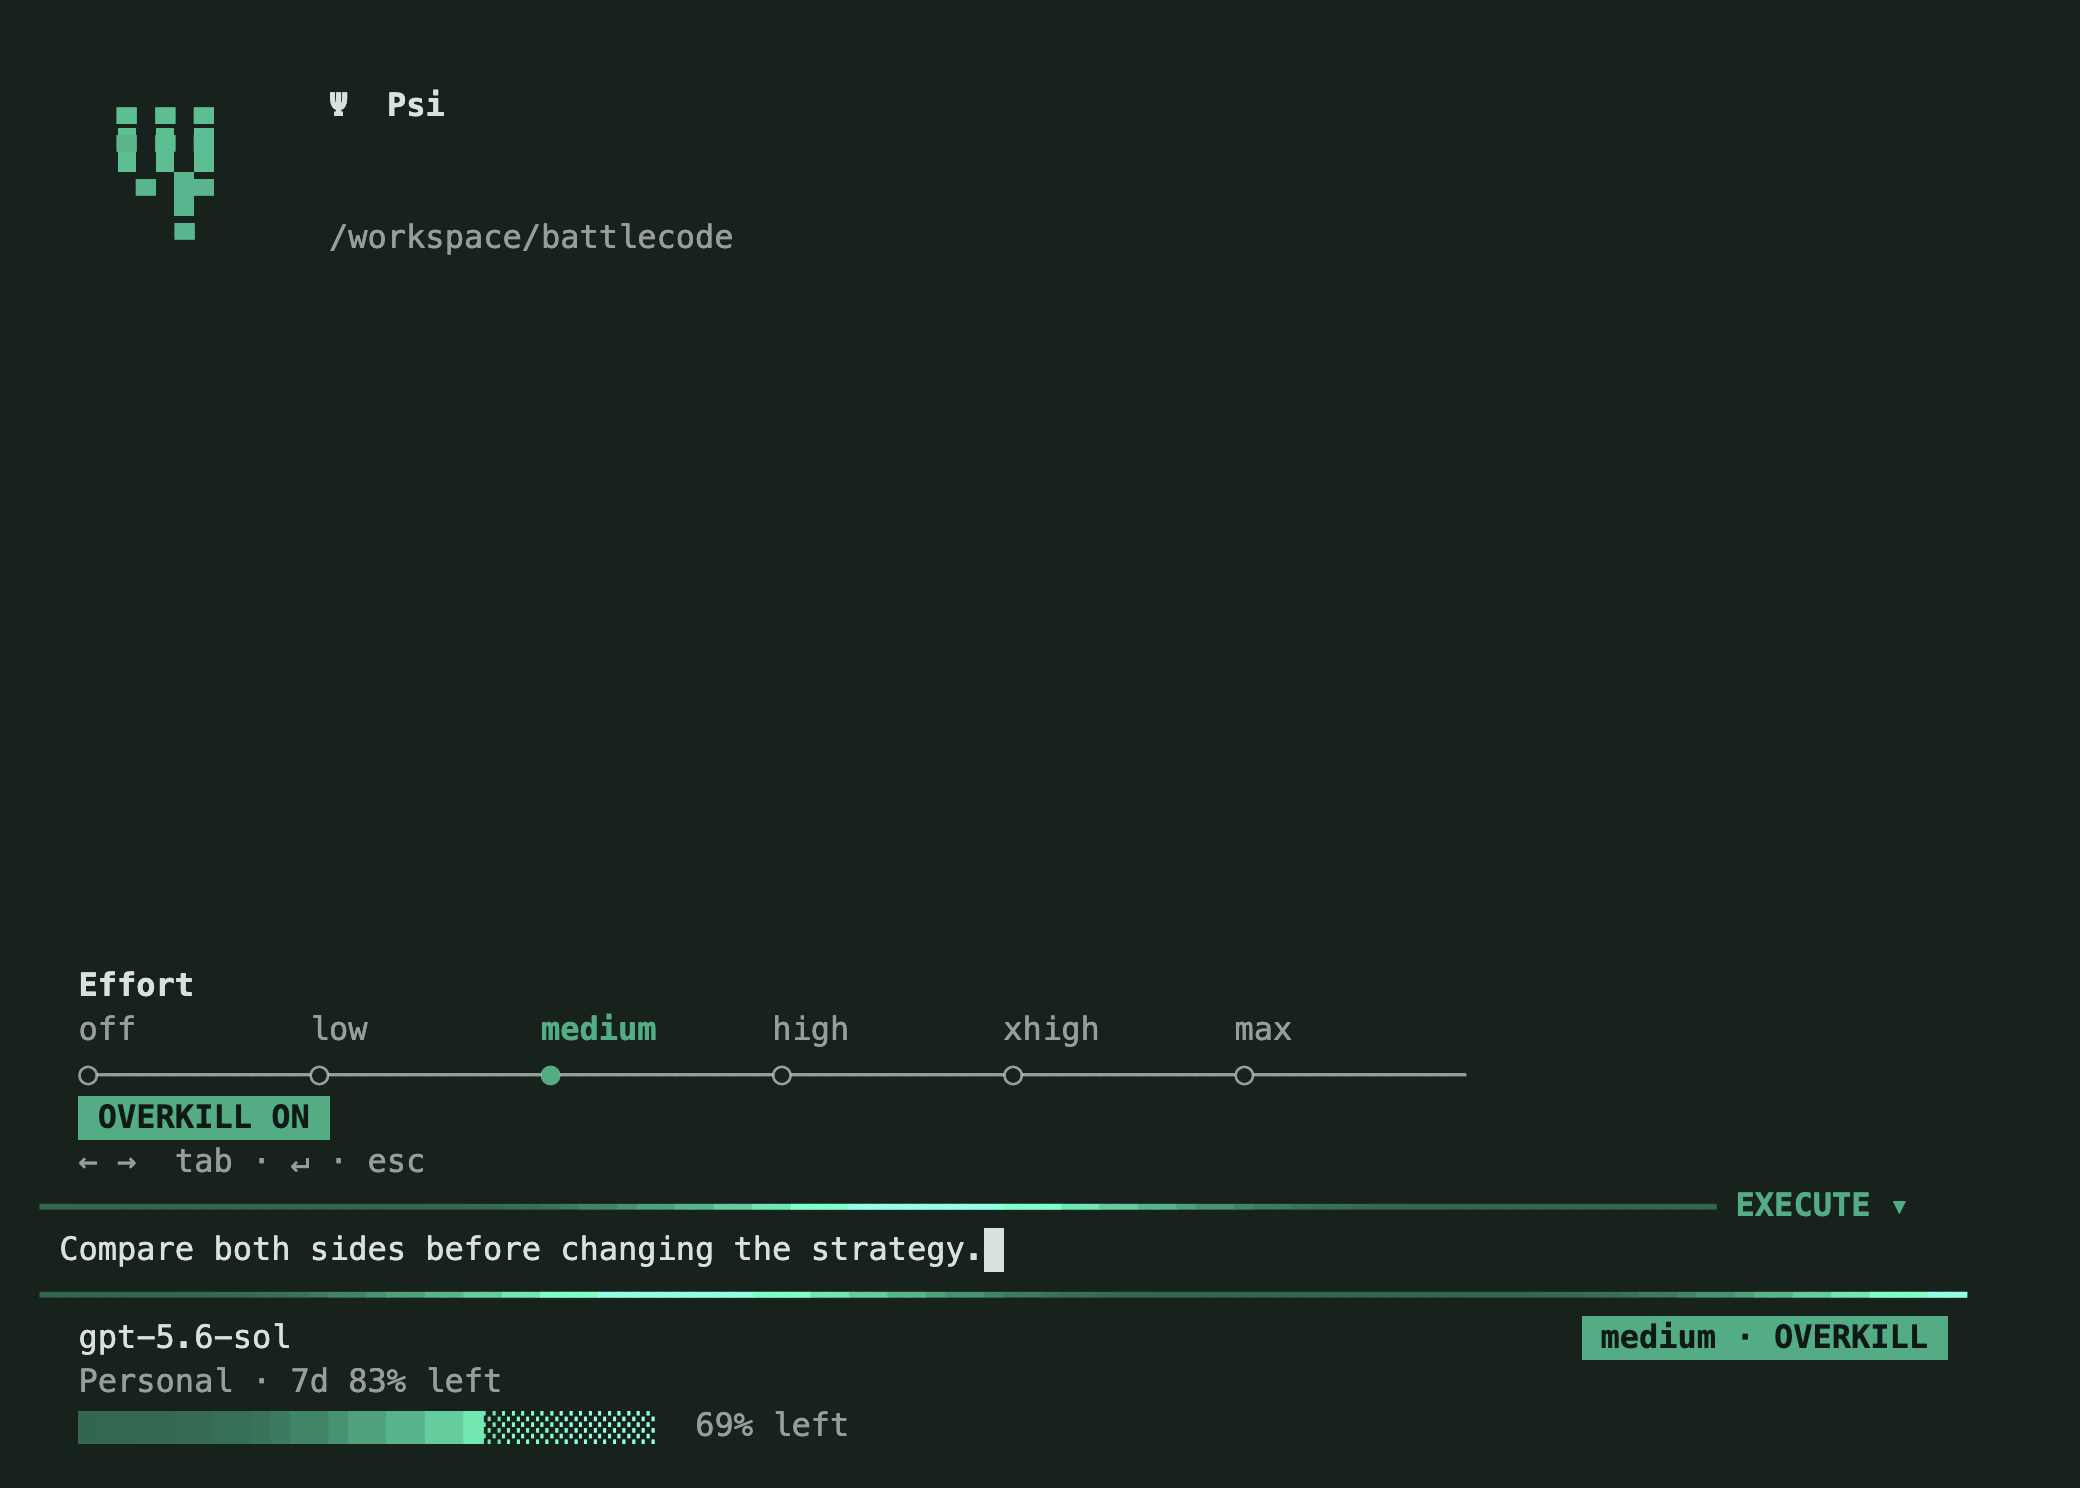
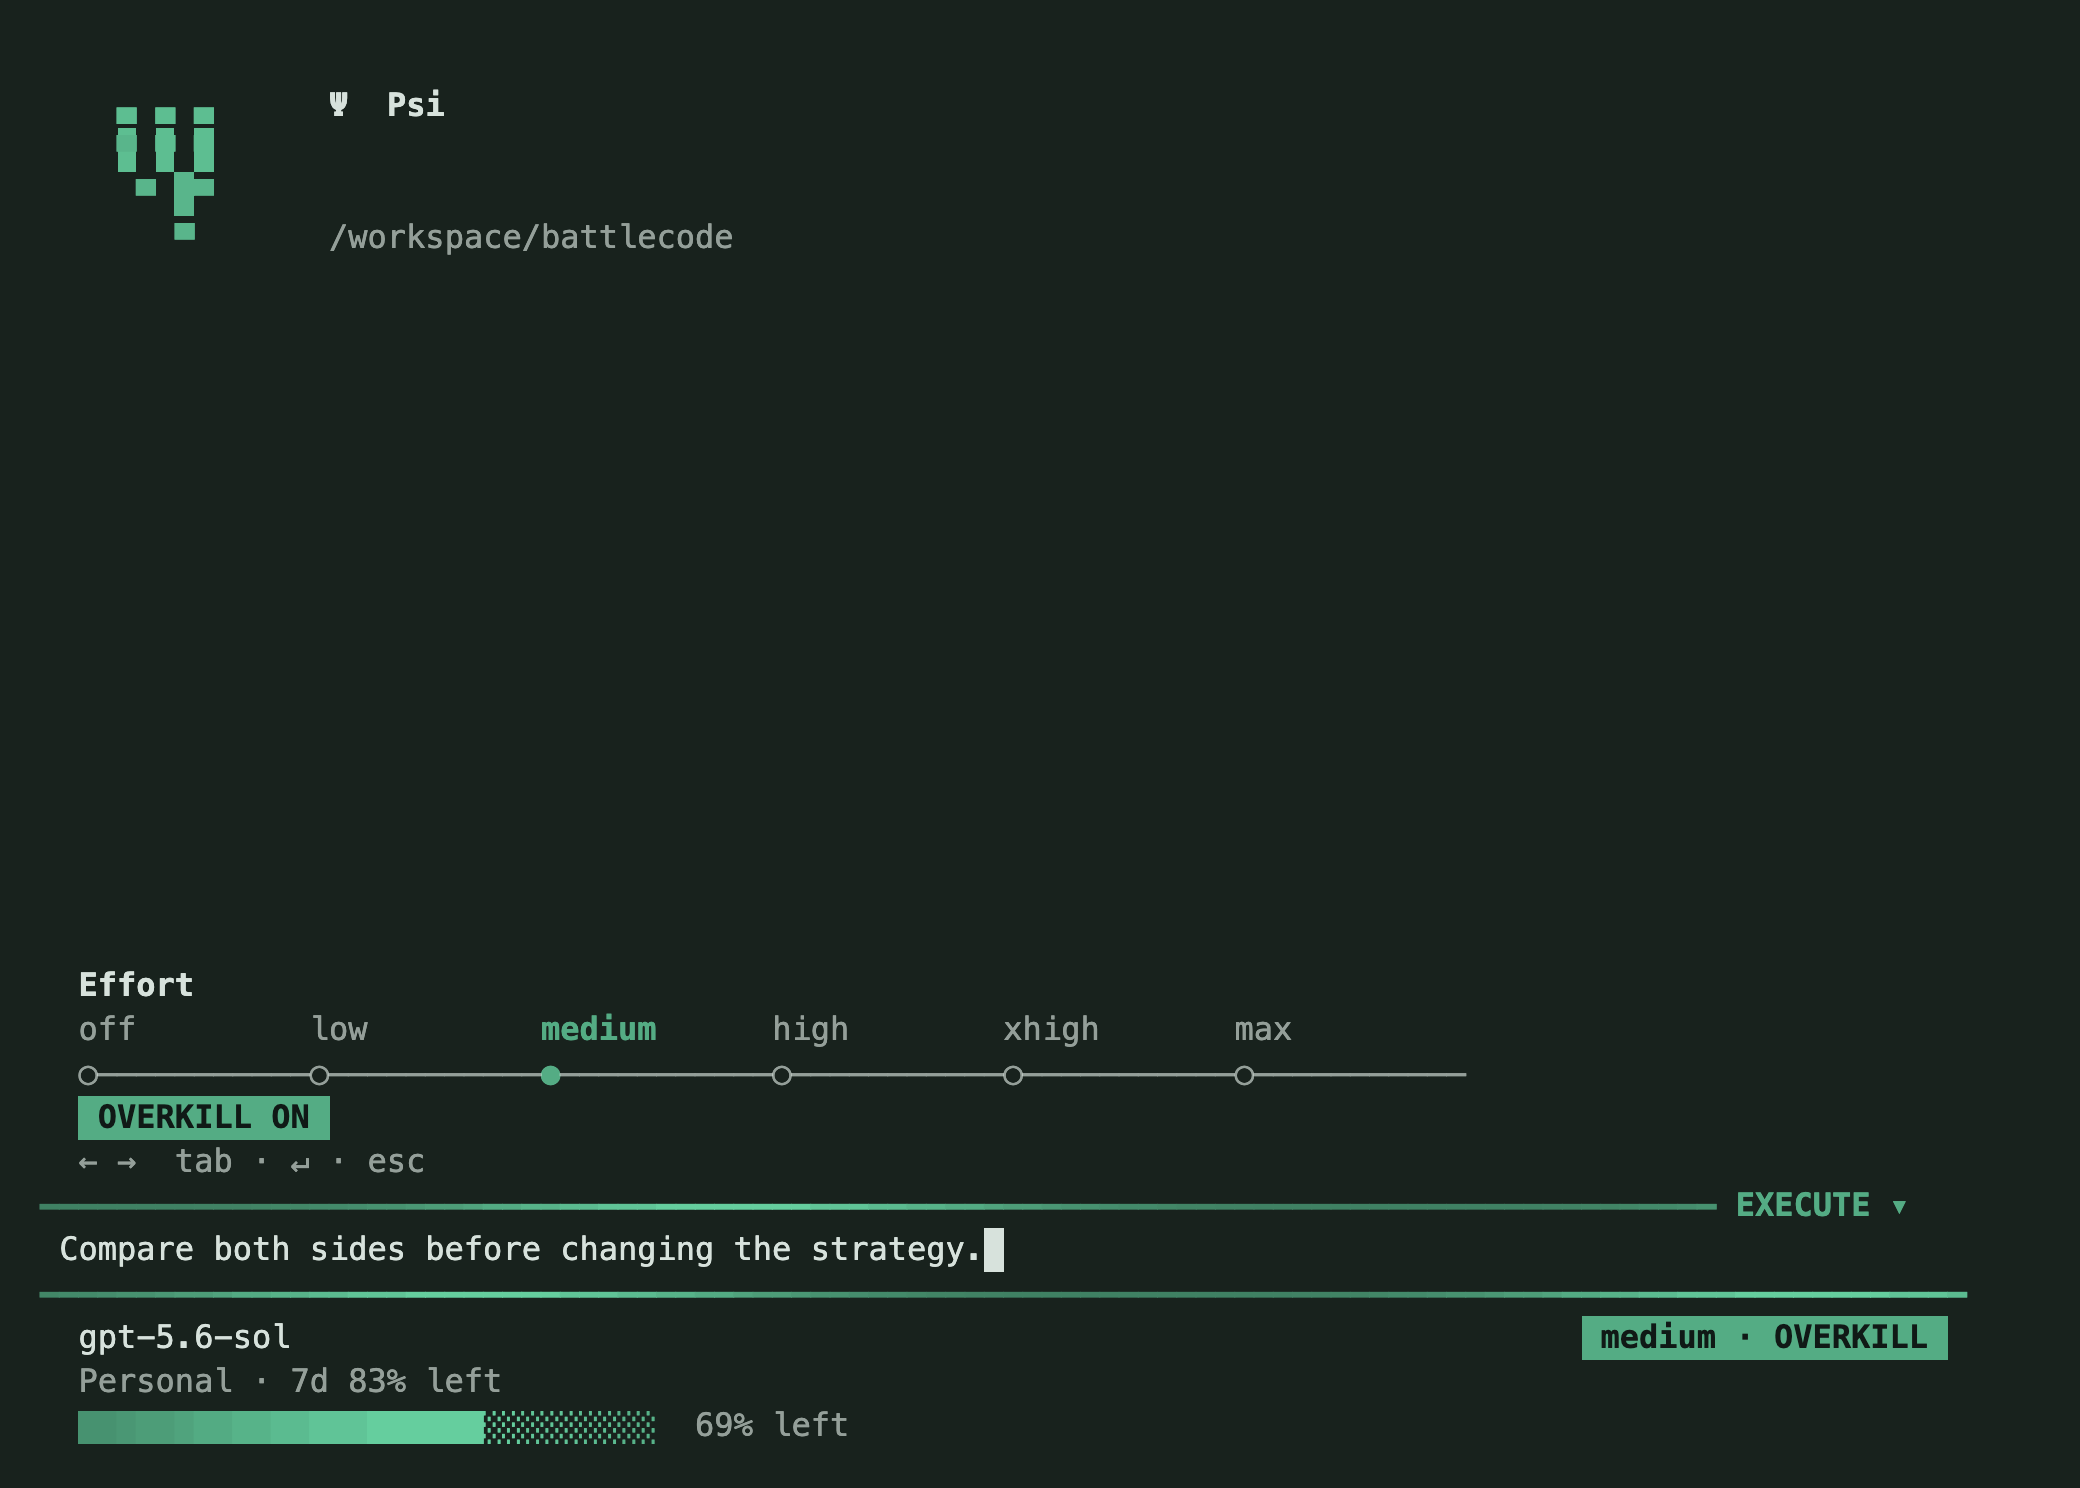
Soften OVERKILL bar motion and simplify account picker labels

diff --git a/DESIGN.md b/DESIGN.md
@@ -18,7 +18,7 @@ A fullscreen terminal viewport contains the workspace header, a scrolling conver
 
 ## Interaction
 
-Shift+Tab toggles PLAN/EXECUTE. The dedicated /effort slider uses arrows to adjust, Tab to stage OVERKILL, Enter to apply and Escape to discard. /stats uses a compact bottom panel with calendar heatmaps for week, month and all-time activity; arrows/Tab change period, r refreshes and Escape closes without losing the draft. Slash commands and Tab completion; Enter submits; Shift+Enter adds a line; Escape closes a picker; two Escapes within 600 ms stop a run; Ctrl+C cancels a prompt or active run and exits when idle. Pickers support arrow keys and text search. Settings use a searchable list with values and short explanations, then a focused picker or input for the chosen setting. Keep the workspace header pinned above every picker and statistics/tool panel. At very short terminal heights it compacts to the original Psi identity and path. Effort shows only supported level labels, the slider, OVERKILL toggle and symbolic key hints. Generic menus use a short title, filter, compact list and key hints, without explanatory paragraphs. /tools is a paged name grid. /reset uses a compact bottom panel with provider-reported reset dates/countdowns and explicit account selection. A second Enter confirms a banked reset; ambiguous outcomes retain a durable retry key. Claude resets open the provider Usage page. Budget, request limits, output tokens and Compaction model stay in Settings. Appearance updates immediately; execution settings queue until the next safe boundary. Messages have a small Ψ/Psi header, aligned response text and one row per tool that updates in place. A user send receives a 240 ms eased accent transition; an active response or tool uses a restrained accent pulse and stable-width status text. Streamed text is shown immediately, without a typewriter delay. The global motion timer runs at most 12.5 frames per second while work or send feedback is active, and stops when idle, disabled or closed, except while the user has explicitly enabled OVERKILL. OVERKILL increases border weight, adds a filled ON badge and moves a brighter accent across the borders, usage meter and original terminal mark. Reduced motion makes these accents static. UI animations can be disabled in settings. The logo also has an explicitly requested, click-triggered 3D view. It opens a rotating, shaded Ψ mesh occupying at most half the terminal height and 52 columns, at 24 fps and exits on click or Escape without changing the prompt. `/logo` supplies a keyboard alternative. Stop its timer completely on close and exit. No animation plays on startup. Streamed output is coalesced into approximately 35ms render windows. UI retains at most 100 transcript components while session evidence remains on disk.
+Shift+Tab toggles PLAN/EXECUTE. The dedicated /effort slider uses arrows to adjust, Tab to stage OVERKILL, Enter to apply and Escape to discard. /stats uses a compact bottom panel with calendar heatmaps for week, month and all-time activity; arrows/Tab change period, r refreshes and Escape closes without losing the draft. Slash commands and Tab completion; Enter submits; Shift+Enter adds a line; Escape closes a picker; two Escapes within 600 ms stop a run; Ctrl+C cancels a prompt or active run and exits when idle. Pickers support arrow keys and text search. Account switch/remove rows show only the short provider name and account name, such as codex · Personal, without status marks, authentication details, IDs or request counts. Settings use a searchable list with values and short explanations, then a focused picker or input for the chosen setting. Keep the workspace header pinned above every picker and statistics/tool panel. At very short terminal heights it compacts to the original Psi identity and path. Effort shows only supported level labels, the slider, OVERKILL toggle and symbolic key hints. Generic menus use a short title, filter, compact list and key hints, without explanatory paragraphs. /tools is a paged name grid. /reset uses a compact bottom panel with provider-reported reset dates/countdowns and explicit account selection. A second Enter confirms a banked reset; ambiguous outcomes retain a durable retry key. Claude resets open the provider Usage page. Budget, request limits, output tokens and Compaction model stay in Settings. Appearance updates immediately; execution settings queue until the next safe boundary. Messages have a small Ψ/Psi header, aligned response text and one row per tool that updates in place. A user send receives a 240 ms eased accent transition; an active response or tool uses a restrained accent pulse and stable-width status text. Streamed text is shown immediately, without a typewriter delay. The global motion timer runs at most 12.5 frames per second while work or send feedback is active, and stops when idle, disabled or closed, except while the user has explicitly enabled OVERKILL. OVERKILL increases border weight, adds a filled ON badge and moves a brighter accent across the borders, usage meter and original terminal mark. Input and usage waves use an 850 ms phase scale with a restrained 0.75–1.20 brightness range; the logo keeps its existing motion. Reduced motion makes these accents static. UI animations can be disabled in settings. The logo also has an explicitly requested, click-triggered 3D view. It opens a rotating, shaded Ψ mesh occupying at most half the terminal height and 52 columns, at 24 fps and exits on click or Escape without changing the prompt. `/logo` supplies a keyboard alternative. Stop its timer completely on close and exit. No animation plays on startup. Streamed output is coalesced into approximately 35ms render windows. UI retains at most 100 transcript components while session evidence remains on disk.
 
 ## Assets
 

diff --git a/docs/VERIFICATION.md b/docs/VERIFICATION.md
@@ -2,7 +2,7 @@
 
 Verified locally on 2026-10-31 (Australia/Sydney), using isolated temporary homes for tests.
 
-- `npm run verify`: syntax checks and **96 passing tests**.
+- `npm run verify`: syntax checks and **97 passing tests**.
 - Real HTTP SSE requests to a local OpenAI-compatible fixture executed file writes, a detached shell job, website extraction and objective completion. No paid inference was used.
 - A new process can reconstruct messages, usage, pending goals and tool outcomes from the session journal.
 - Tested serialized multi-account refresh, private credential file mode, transient retries, authentication failure handling, budget/request limits, compaction, torn-journal recovery, writer contention, stale-session rejection and cancellation.
@@ -102,3 +102,9 @@ Actual API invoices and real competition transactions were not exercised in this
 - A read-only check against the existing selected Codex account returned quota windows and credit metadata. The saved Codex login hash was unchanged. No real credit was redeemed and no paid inference was used.
 - The account footer omits five-hour quota and keeps weekly percent left. The bottom meter retains five-hour-first behavior. Budget/request/token limits and Compaction model remain in Settings.
 - Linux and Windows CI include the reset tests using a local protocol fixture; the installed Codex binary is optional and not required by the test suite.
+
+## Quieter bars and account rows (0.2.8)
+
+- Input and usage-bar waves move 35% slower, with a narrower brightness range. The existing reduced-motion and animation/timer checks pass; logo motion is unchanged.
+- Account switch/remove rows show only provider and account name. Codex is shortened to `codex`; active markers, authentication type, account IDs and usage details are omitted. A focused regression verifies the list still uses stable IDs internally.
+- Read-only inspection confirmed the unwanted entry was already absent from the local Psi store. The separate Pi source login was left intact. No account-removal code or personal account names were added to the product.

diff --git a/docs/GUIDE.md b/docs/GUIDE.md
@@ -157,7 +157,7 @@ An incremental private cache stores counters and timestamps, without copying pro
 
 ## Usage and multiple accounts
 
-Use `/accounts` → **Login new account** repeatedly to add any number of named accounts, including several from the same provider. Saved credentials are separate; connecting another account does not overwrite the first. Use **Switch accounts** to select from the flat cross-provider list. Short account IDs distinguish duplicate names.
+Use `/accounts` → **Login new account** repeatedly to add any number of named accounts, including several from the same provider. Saved credentials are separate; connecting another account does not overwrite the first. Use **Switch accounts** to select from the flat cross-provider list. Rows show only provider and account name; use distinct names for clarity.
 
 Subscription accounts show their provider-reported **7d** quota beside the account, and the **5h** quota in the bottom meter when supplied. `/reset` shows both reset times and countdowns. Codex and Claude OAuth accounts refresh on startup, before inference and periodically while the UI is open (default 120 seconds; minimum 60). Absent, unlimited or expired windows are omitted. `/usage` includes the snapshot timestamp and reset data. Polling uses the usage endpoint, not paid inference, and backs off when the service rate-limits it. These endpoints may be unavailable for some accounts or change independently of Psi; unavailable data is never inferred from tokens.
 
